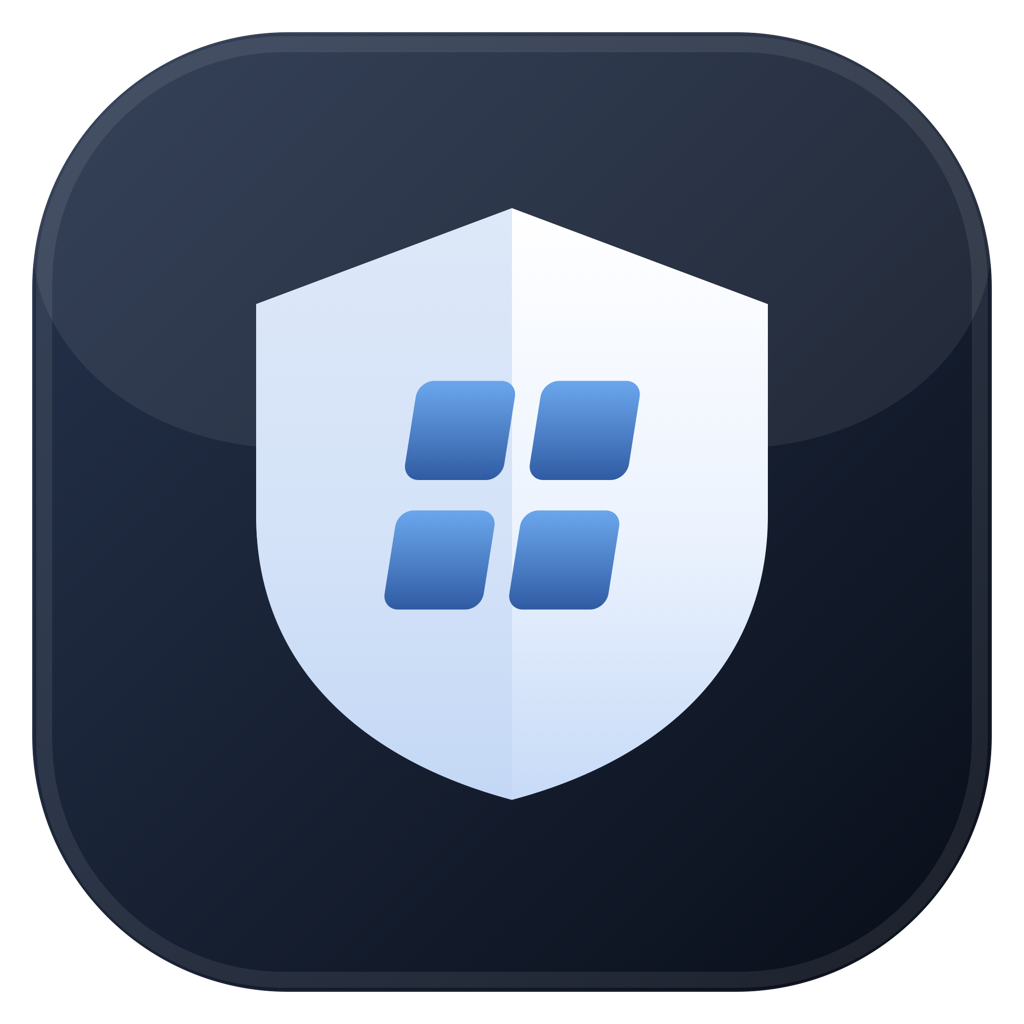
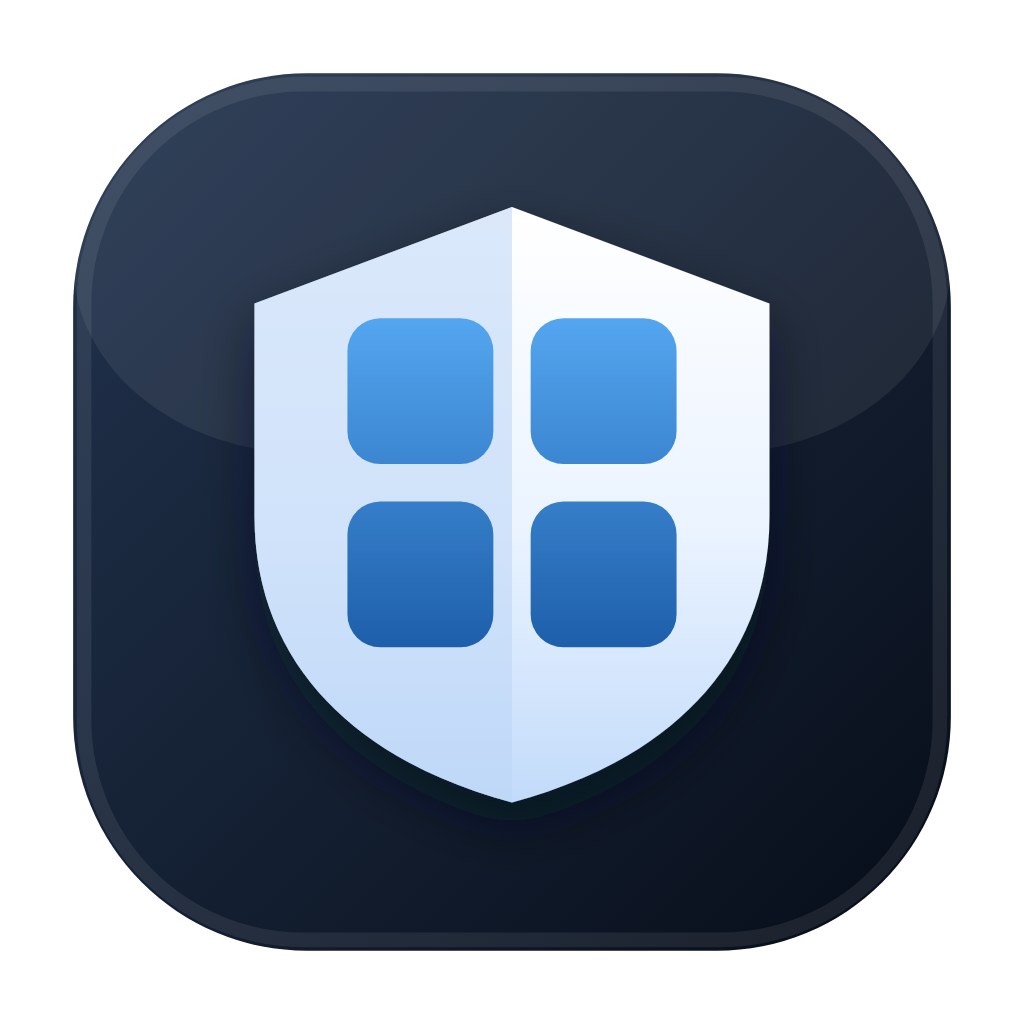
Apply selected upright square shield to Windows app and editor

diff --git a/src/WindowsBlocker/Assets/package-info.md b/src/WindowsBlocker/Assets/package-info.md
@@ -1,0 +1,3 @@
+# Windows 03 branding
+
+Selected normal vector and gradient symbol use the approved 110% shared shield. Masters, native containers and BrowserIcons are generated on mini1 by customBlocker/tools/generate_icons.py; edit the canonical selected vector there, then regenerate. The inverse companion preserves dark-toolbar contrast.

diff --git a/src/WindowsBlocker/Assets/BrowserIcons/package-info.md b/src/WindowsBlocker/Assets/BrowserIcons/package-info.md
@@ -1,0 +1,3 @@
+# Browser branding aliases
+
+Generated PNG sizes and SVG companions for this product, using the shared editor filenames. Historical lock filenames remain resource aliases; the artwork is the selected platform shield.
